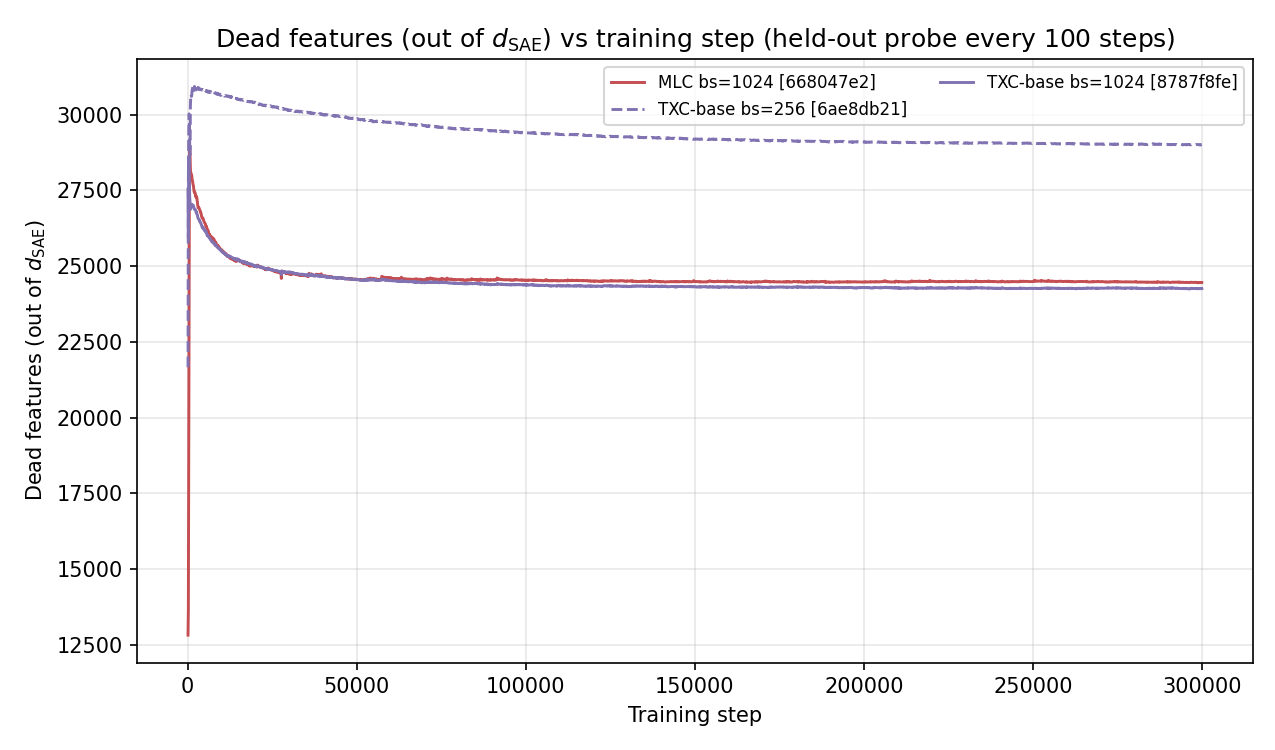
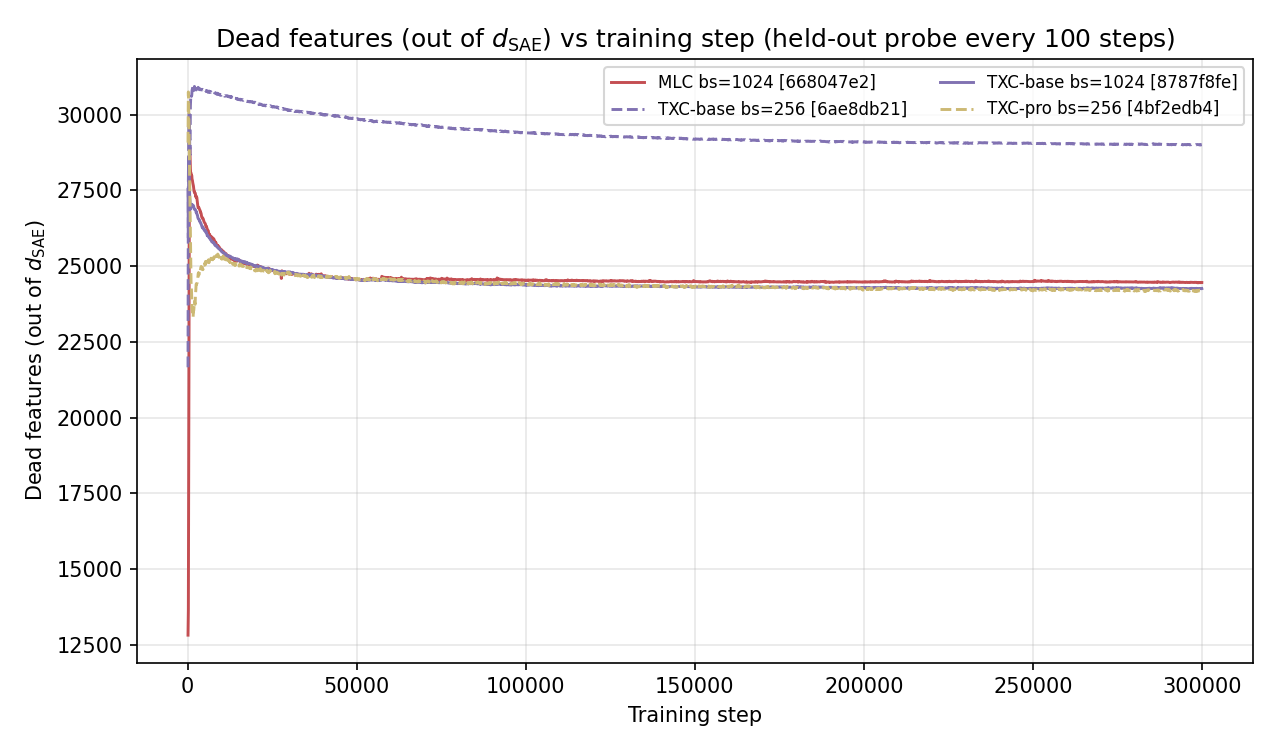
c7 paper auto: refresh bundle (? leaderboard rows)
Auto-generated by purified/scripts/c7_paper_renderer.py.
Inputs: results/leaderboard.jsonl filtered to component=c7 + every
cell's snapshots/eval_log.jsonl probe stream.

Changed region(s): [[0.2447, 0.368, 0.9482, 0.3987], [0.7647, 0.1227, 0.9482, 0.1533], [0.1529, 0.3373, 0.2447, 0.368]]

diff --git a/purified/docs/components/c7_paper_results.md b/purified/docs/components/c7_paper_results.md
@@ -1,6 +1,6 @@
 # C7 — Backtracking case study: results bundle (autogenerated)
 
-_Last updated: 2026-05-05 16:51:43 UTC._  _Source: `purified/results/leaderboard.jsonl` filtered to `component == 'c7'`._
+_Last updated: 2026-05-05 16:56:48 UTC._  _Source: `purified/results/leaderboard.jsonl` filtered to `component == 'c7'`._
 
 **Cells in leaderboard:** 3.  **Architectures present:** MLC, TXC-base.  **Still pending:** TXC-pro, TopK SAE, T-SAE.
 
